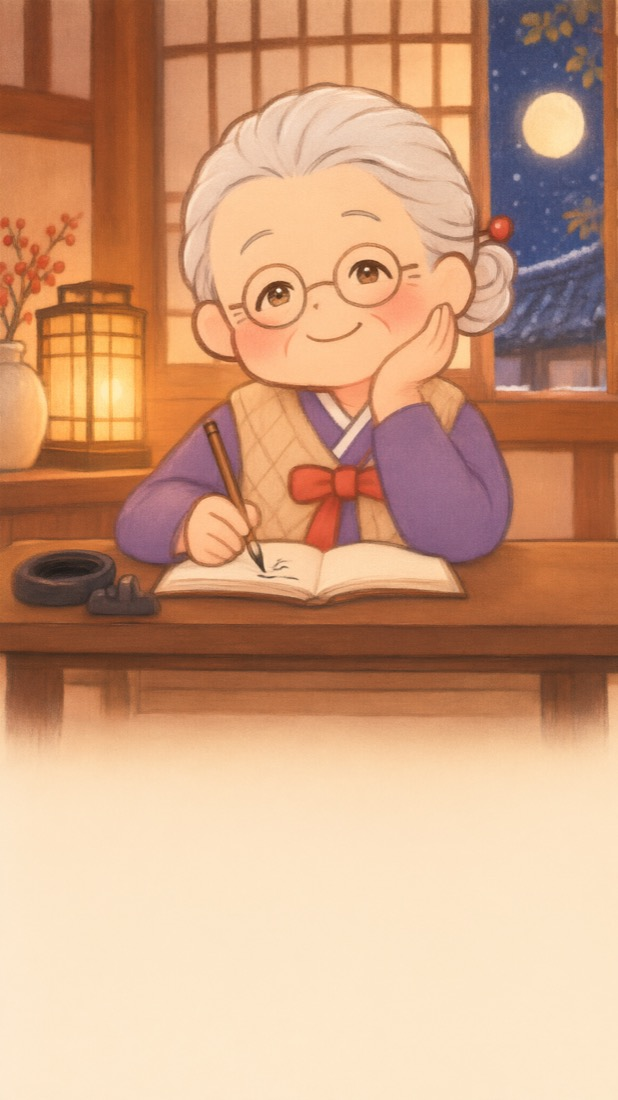
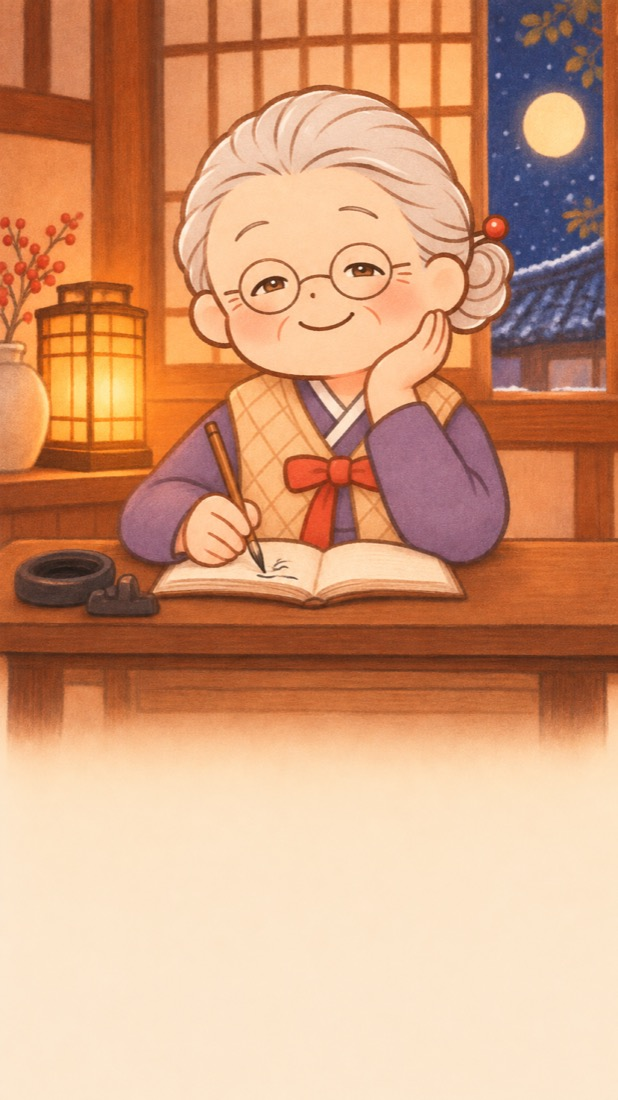
할미 그림 4장 GPT판

diff --git a/preview/soft.html b/preview/soft.html
@@ -1,3 +1,3 @@
 <!doctype html><html lang="ko"><head><meta charset="utf-8"><meta name="viewport" content="width=device-width,initial-scale=1"><meta name="robots" content="noindex,nofollow"><title>할미 표정 바꾼 그림 4장</title>
 <style>body{margin:0;background:#F6F1E7;font-family:-apple-system,sans-serif;color:#2B2622}main{max-width:448px;margin:0 auto;padding:16px 16px 48px}h1{font-size:20px;line-height:30px;margin:8px 0}p{font-size:15px;line-height:24px;color:#6E6459;margin:4px 0 16px}.box{position:relative;border-radius:16px;overflow:hidden}.box img{display:block;width:100%}.say{position:absolute;left:16px;right:16px;bottom:24%;text-align:center;font-family:serif;font-size:18px;line-height:27px;color:#0E324C;margin:0}.cap{font-size:13px;margin:4px 0 24px}</style></head>
-<body><main><h1>표정 바꾼 그림 4장 · 인자하고 기품 있게</h1><p>입 다문 은은한 미소, 부드럽게 뜬 갈색 눈. 영상 만들기 전 그림이에요.</p><div class="box"><img src="s/Q1.jpg?v=5"><p class="say">“운명을 펼치기 전에, 먼저 이름부터 알려줄래요?”</p></div><p class="cap">Q1 · 도입</p><div class="box"><img src="s/Q5.jpg?v=5"><p class="say">“좋아요, 몇 가지만 더 물어볼게요! 혹시 지금 만나는 분이 계세요?”</p></div><p class="cap">Q5 · 연애</p><div class="box"><img src="s/Q8.jpg?v=5"><p class="say">“특별히 물어보실 내용이 있다면 따로 풀이를 작성해 드릴게요.”</p></div><p class="cap">Q8 · 따로 물을 것</p><div class="box"><img src="s/Q9.jpg?v=5"><p class="say">“자, 이제 마지막이에요! 제비 하나만 뽑아주시겠어요?”</p></div><p class="cap">Q9 · 마지막</p></main></body></html>
+<body><main><h1>할미 그림 4장 · GPT로 다시 그림</h1><p>입 다문 은은한 미소, 부드럽게 뜬 갈색 눈. 영상 만들기 전 그림이에요.</p><div class="box"><img src="s/Q1.jpg?v=6"><p class="say">“운명을 펼치기 전에, 먼저 이름부터 알려줄래요?”</p></div><p class="cap">Q1 · 도입</p><div class="box"><img src="s/Q5.jpg?v=6"><p class="say">“좋아요, 몇 가지만 더 물어볼게요! 혹시 지금 만나는 분이 계세요?”</p></div><p class="cap">Q5 · 연애</p><div class="box"><img src="s/Q8.jpg?v=6"><p class="say">“특별히 물어보실 내용이 있다면 따로 풀이를 작성해 드릴게요.”</p></div><p class="cap">Q8 · 따로 물을 것</p><div class="box"><img src="s/Q9.jpg?v=6"><p class="say">“자, 이제 마지막이에요! 제비 하나만 뽑아주시겠어요?”</p></div><p class="cap">Q9 · 마지막</p></main></body></html>
